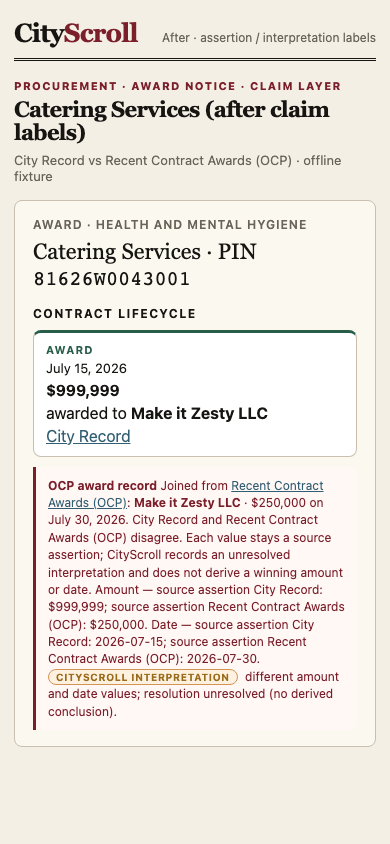
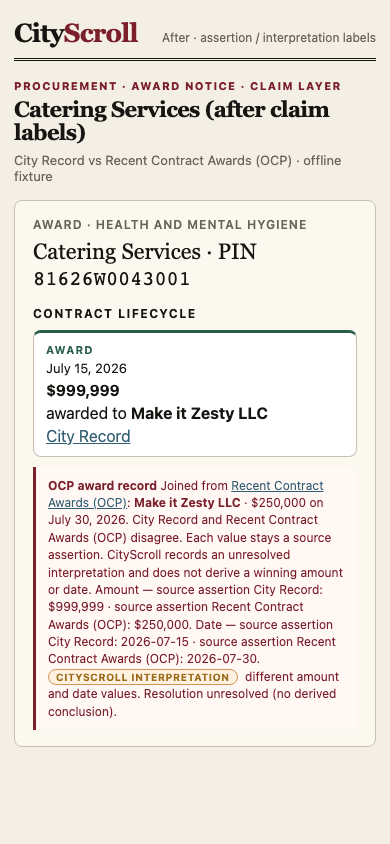
Avoid semicolons in OCP claim-layer English copy
NYC copy lint forbids new semicolons in public strings. Keep the
source-assertion labels while using periods and middots instead.

Changed region(s): [[0.1231, 0.7085, 0.8923, 0.7701], [0.3692, 0.8009, 0.8615, 0.8318]]

diff --git a/site/i18n.js b/site/i18n.js
@@ -995,10 +995,10 @@ const STRINGS = {
     lifecycle_ocp_heading: "OCP award record",
     lifecycle_ocp_matched_html: "Joined from {source}: {vendor} · {amount} on {date}.",
     lifecycle_ocp_corroborated_html: "City Record and {source} agree on award date and amount.",
-    lifecycle_ocp_disagreement_html: "City Record and {source} disagree. Each value stays a source assertion; CityScroll records an unresolved interpretation and does not derive a winning amount or date.",
-    lifecycle_ocp_amount_pair_html: "Amount — source assertion {city_record_label}: {city_amount}; source assertion {ocp_label}: {ocp_amount}.",
-    lifecycle_ocp_date_pair_html: "Date — source assertion {city_record_label}: {city_date}; source assertion {ocp_label}: {ocp_date}.",
-    lifecycle_ocp_interpretation_html: "CityScroll interpretation: different {field} values; resolution unresolved (no derived conclusion).",
+    lifecycle_ocp_disagreement_html: "City Record and {source} disagree. Each value stays a source assertion. CityScroll records an unresolved interpretation and does not derive a winning amount or date.",
+    lifecycle_ocp_amount_pair_html: "Amount — source assertion {city_record_label}: {city_amount} · source assertion {ocp_label}: {ocp_amount}.",
+    lifecycle_ocp_date_pair_html: "Date — source assertion {city_record_label}: {city_date} · source assertion {ocp_label}: {ocp_date}.",
+    lifecycle_ocp_interpretation_html: "CityScroll interpretation: different {field} values. Resolution unresolved (no derived conclusion).",
     lifecycle_ocp_unmatched_html: "Not yet shown here — recent OCP awards live in {source}.",
     lifecycle_ocp_unknown_html: "Could not reach {source} to check this award.",
     lifecycle_ocp_ambiguous_html: "Multiple OCP award rows matched — cannot auto-pick one.",

diff --git a/tools/capture_assertion_claim_layer.py b/tools/capture_assertion_claim_layer.py
@@ -119,15 +119,15 @@ AFTER = page_html(
     <div class="note warn" data-claim-layer="claim_layer_v1"><b>OCP award record</b> Joined from
       <a href="https://data.cityofnewyork.us/d/qyyg-4tf5">Recent Contract Awards (OCP)</a>:
       <b>Make it Zesty LLC</b> · $250,000 on July 30, 2026.
-      City Record and Recent Contract Awards (OCP) disagree. Each value stays a source assertion;
+      City Record and Recent Contract Awards (OCP) disagree. Each value stays a source assertion.
       CityScroll records an unresolved interpretation and does not derive a winning amount or date.
-      <span data-claim="source_assertion">Amount — source assertion City Record: $999,999;
-      source assertion Recent Contract Awards (OCP): $250,000.</span>
-      <span data-claim="source_assertion">Date — source assertion City Record: 2026-07-15;
-      source assertion Recent Contract Awards (OCP): 2026-07-30.</span>
+      <span data-claim="source_assertion">Amount — source assertion City Record: $999,999
+      · source assertion Recent Contract Awards (OCP): $250,000.</span>
+      <span data-claim="source_assertion">Date — source assertion City Record: 2026-07-15
+      · source assertion Recent Contract Awards (OCP): 2026-07-30.</span>
       <span data-claim="cityscroll_interpretation">
         <span class="claim-tag interp">CityScroll interpretation</span>
-        different amount and date values; resolution unresolved (no derived conclusion).
+        different amount and date values. Resolution unresolved (no derived conclusion).
       </span>
     </div>
     """,
